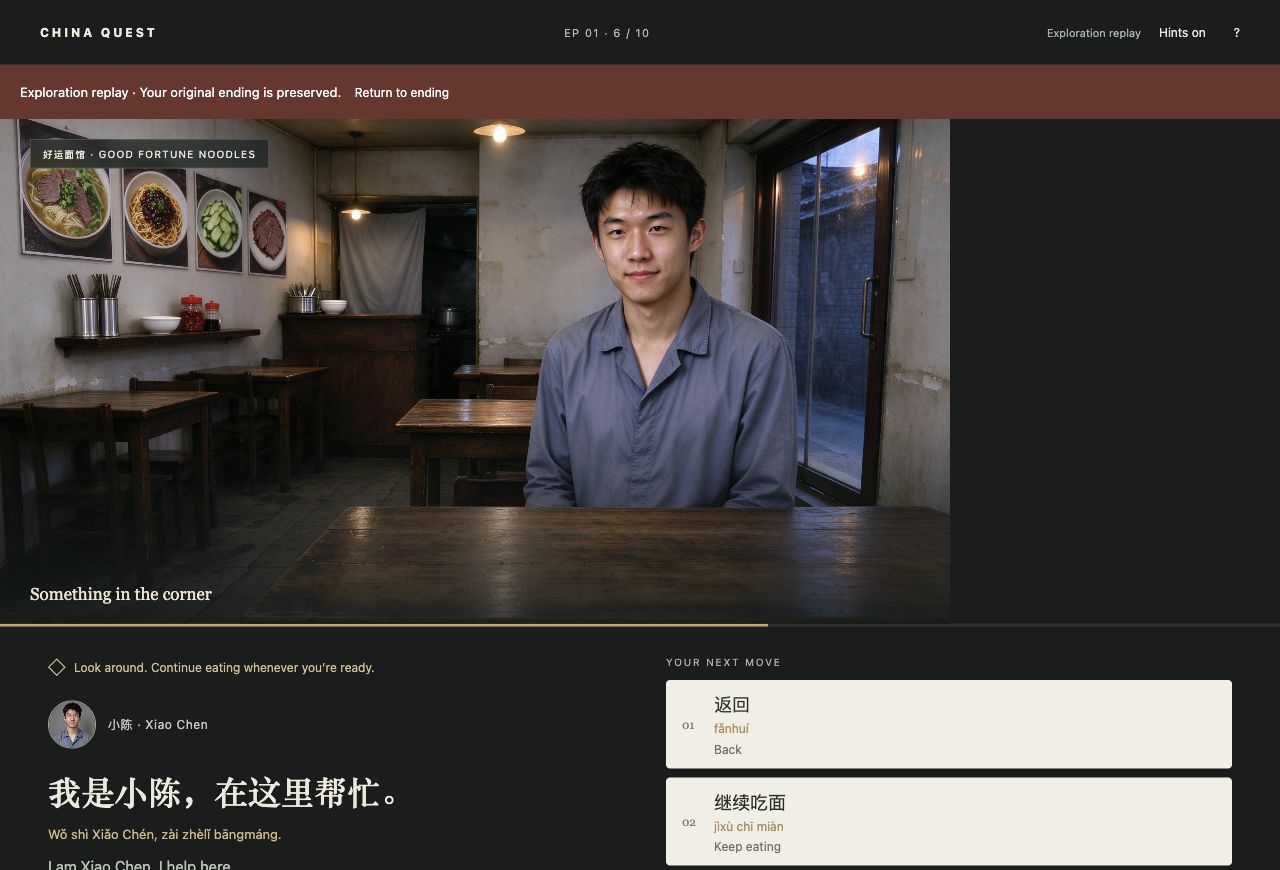
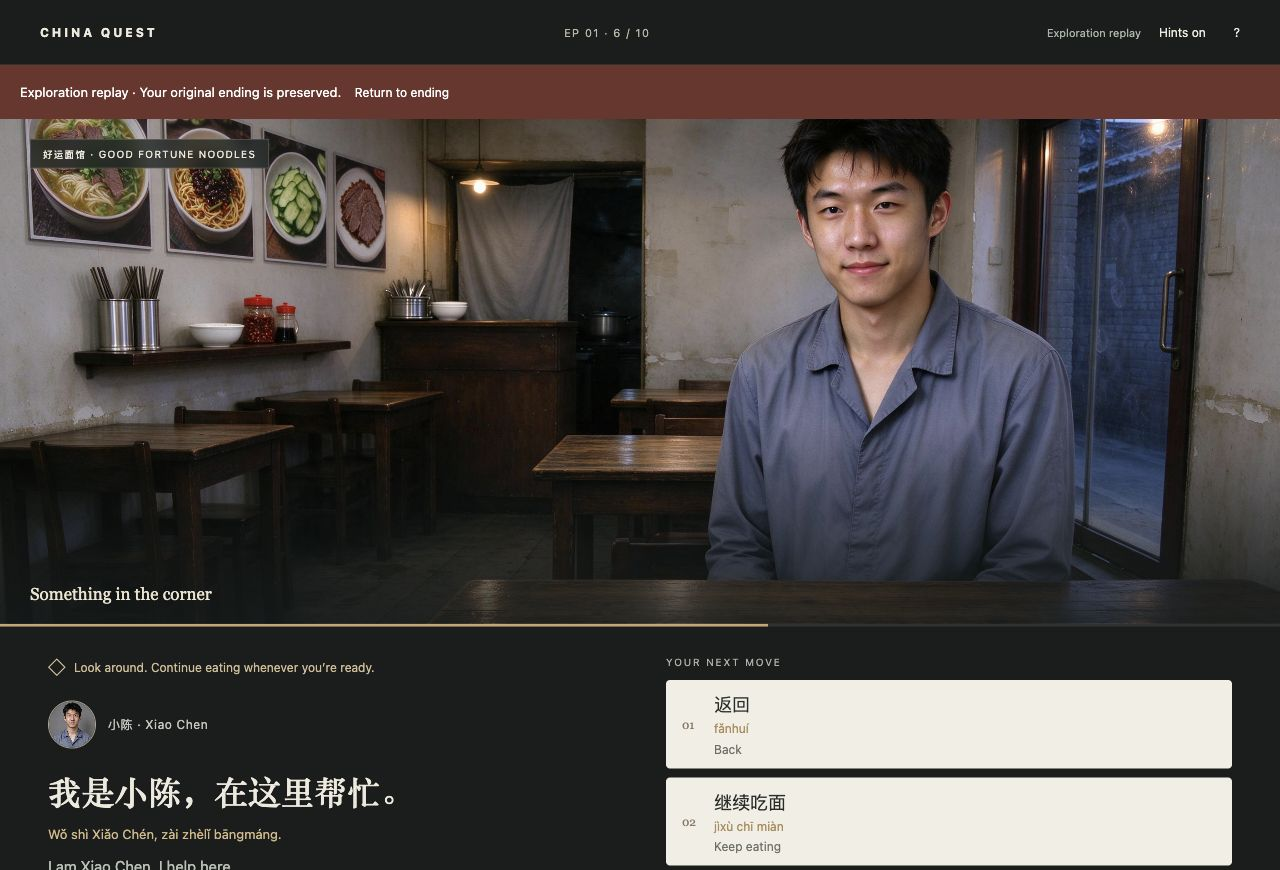
Keep dialogue scenes full width at capped desktop heights

diff --git a/web/style.css b/web/style.css
@@ -4,3 +4,5 @@
 .dialogue-stage{aspect-ratio:16/8.5;max-height:58svh}.dialogue-stage .scene-img{object-fit:cover}.dialogue-stage .location{max-width:42%;font-size:10px}.dialogue-stage .scene-caption{font-size:17px}@media(max-width:700px){.dialogue-stage{aspect-ratio:4/3;max-height:44svh;min-height:260px}.dialogue-stage .location{max-width:43%;font-size:8px;line-height:1.5}}
 
 .story-context{border-left:3px solid #b67b50;padding:1px 16px;margin:12px 0 22px;color:#ced7d0;font-size:14px;line-height:1.65}.story-context p{margin:6px 0}.story-context p+ p{color:#aab9b2}.dialogue-stage[data-expression="serving"],.dialogue-stage[data-expression="meal"]{aspect-ratio:16/9;max-height:none}
+/* Keep the scene full width when its height is capped on wide screens. */
+.stage{width:100%}
